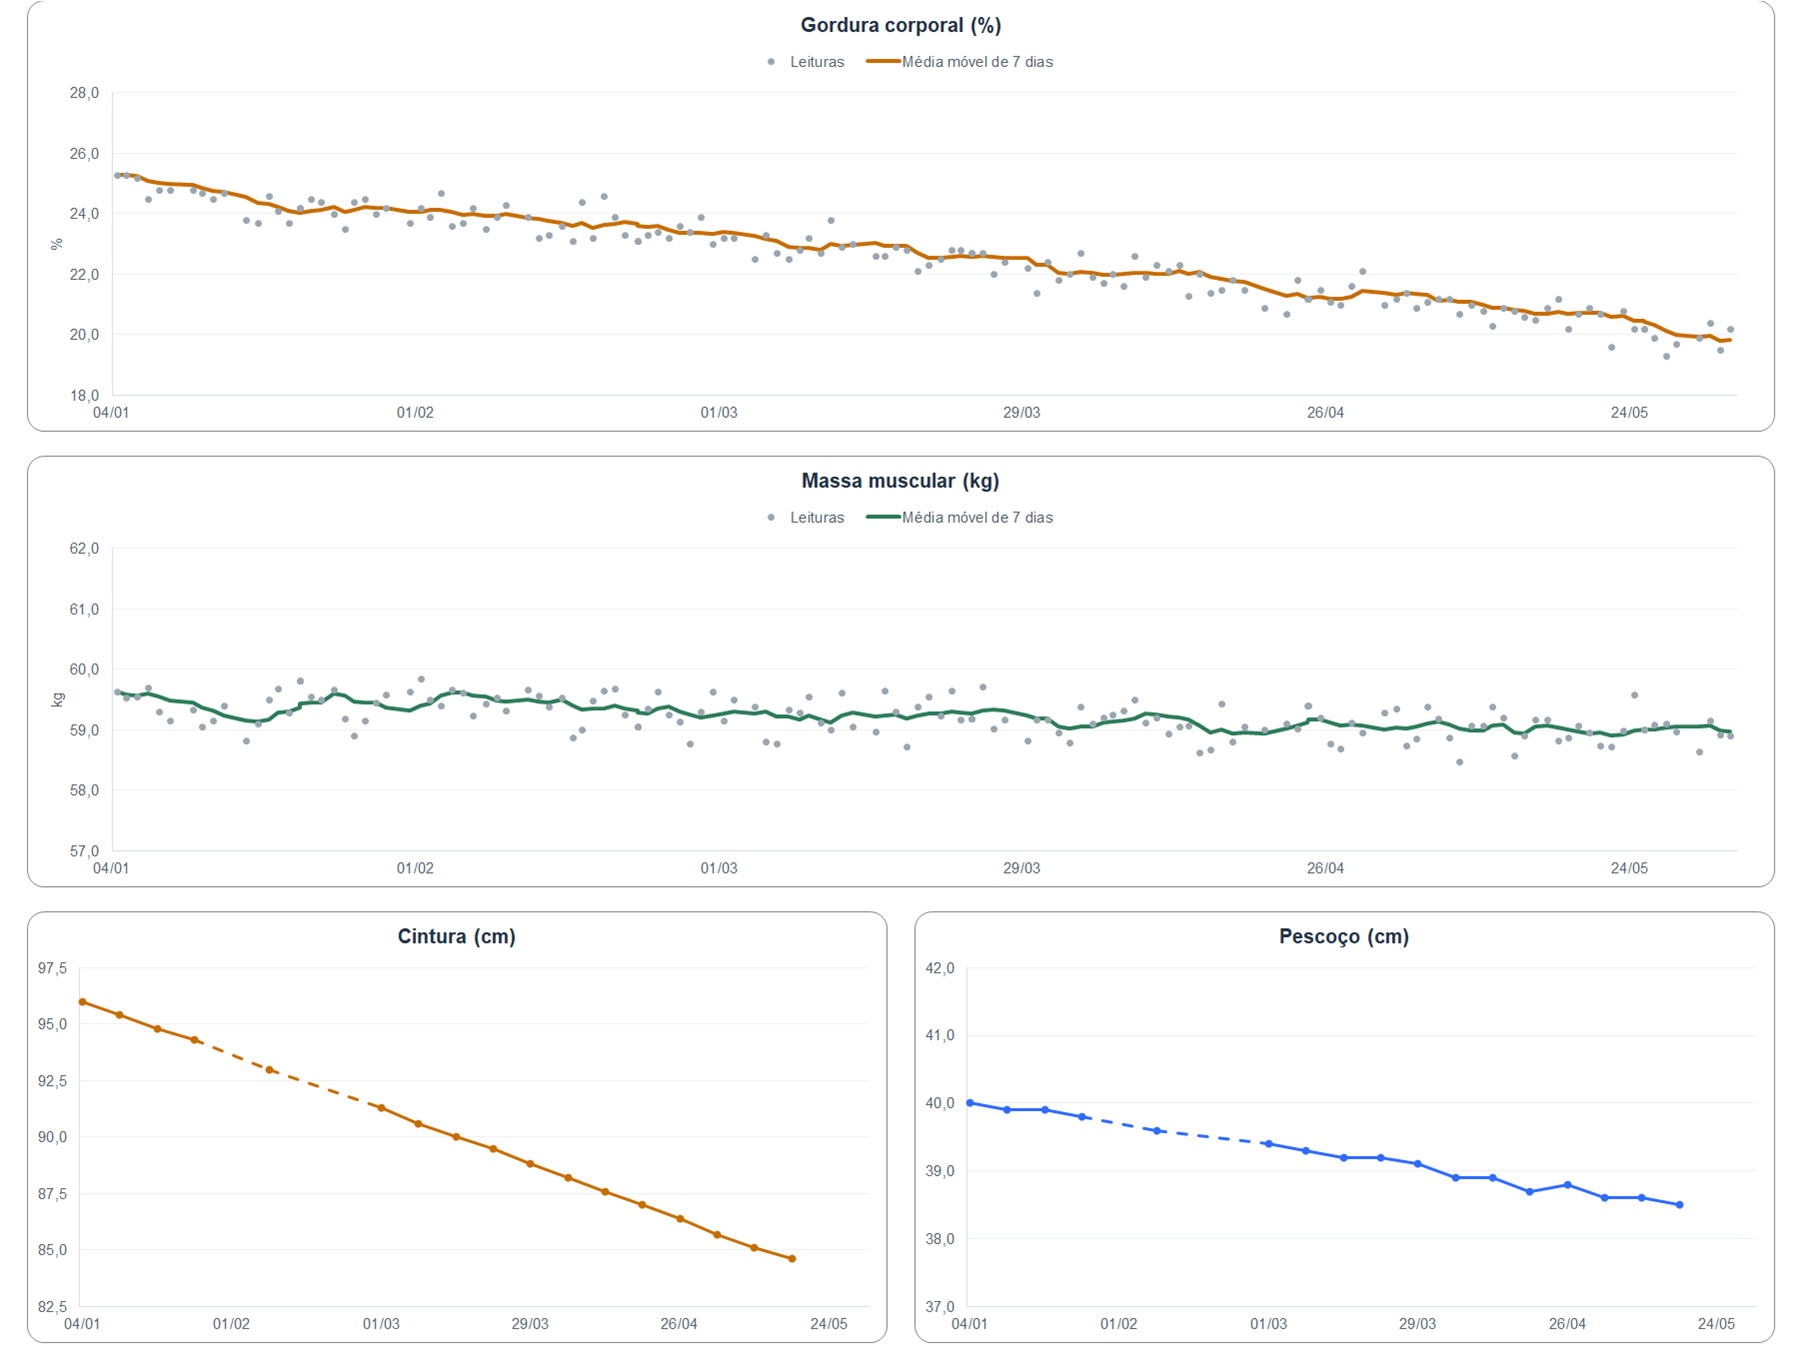
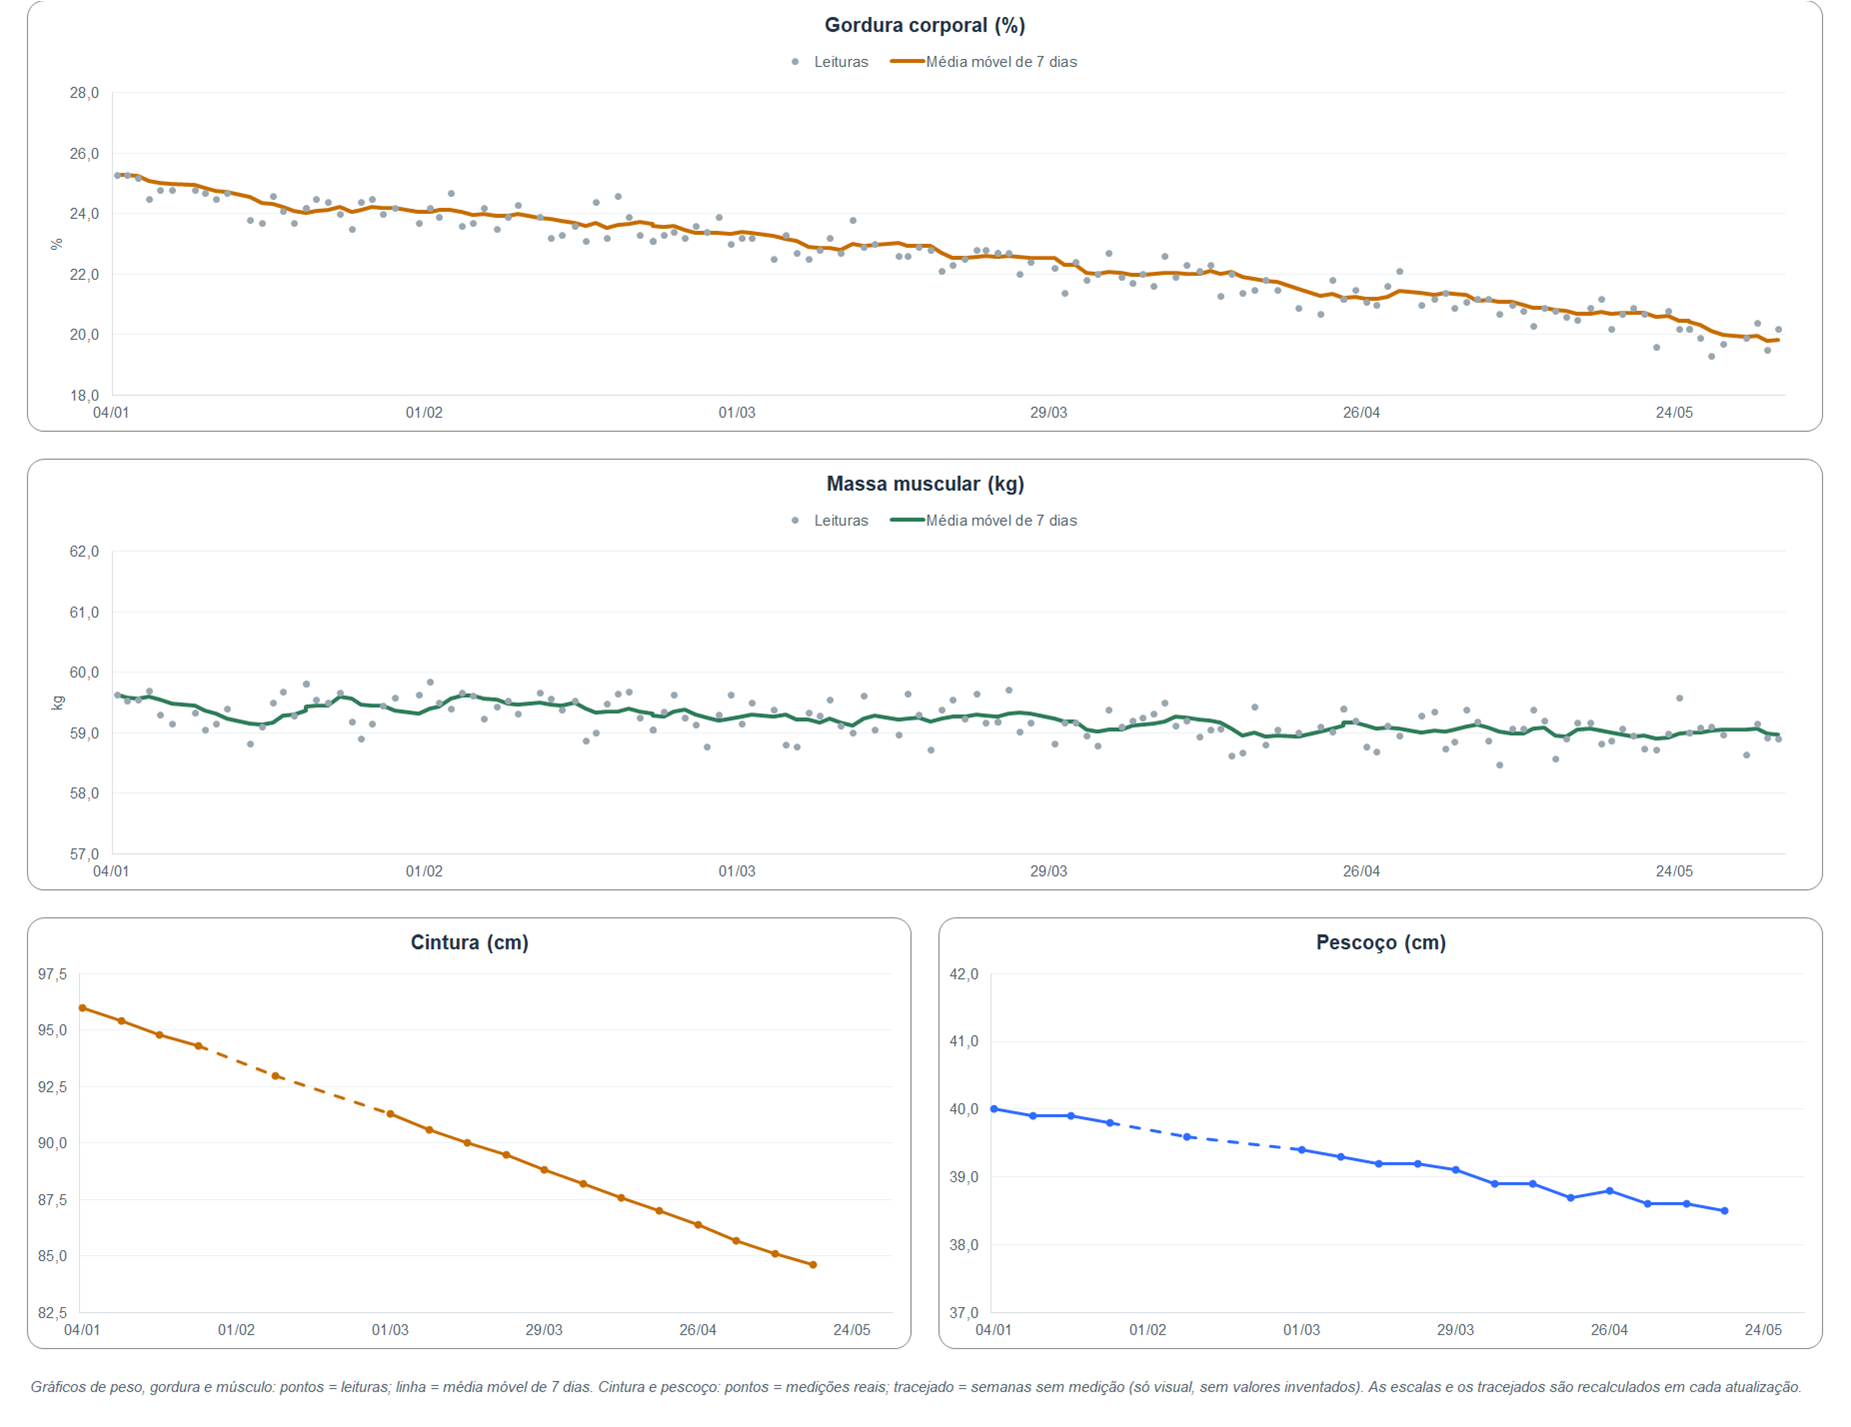
Painel: espaçamento único em margens, cartões e gráficos

diff --git a/zepp_transformacao/excel.py b/zepp_transformacao/excel.py
@@ -63,6 +63,15 @@ COLUNA_CAMPO = {**{campo: COLUNA_CORPO[nome] for nome, campo in CAMPO_CORPO.item
                 "massa_gorda": COLUNA_CORPO["Massa gorda (kg)"]}
 # Amplitude mínima dos eixos Y (unidade da métrica): evita ampliar ruído de medição.
 AMPLITUDE_MINIMA = {"peso": 6, "gordura": 4, "musculo": 3, "cintura": 10, "pescoco": 3}
+# Painel desenhado para o ecrã do utilizador (janela com ~1858 px úteis, 1 carácter de largura ≈ 9 px,
+# 1 ponto de altura ≈ 1,667 px). Um único espaçamento (~27 px) em todo o lado: margens laterais,
+# espaços entre cartões (horizontais e verticais), antes dos gráficos e entre gráficos.
+ESPACO_LARGURA = 3          # caracteres ≈ 27 px
+ESPACO_ALTURA = 16.2        # pontos ≈ 27 px
+CARTAO_LARGURA = 15.9       # 3 colunas por cartão: 4 cartões + 5 espaços ≈ 1851 px
+LINHA_CARTAO = 17           # pontos
+# Linhas do Painel: 3/9/15/21 espaços entre blocos; gráficos ocupam 18 linhas e têm um espaço depois.
+GRAFICOS_LINHAS = [(22, 39), (41, 58), (60, 77), (79, 96)]
 
 borda = Side(style="thin", color=COR["linha"])
 
@@ -492,27 +501,30 @@ def construir(caminho: Path, cfg: Config, selecao: Selecao, semanas: list[Semana
             for r in (linha, linha + 1, linha + 4):
                 painel[f"{c1}{r}"].alignment = Alignment(horizontal="center", vertical="center")
     # Pensado para um monitor largo (~1900 px) a 100 %: margens A e Q com a largura dos espaços entre cartões.
-    _larguras(painel, [3] + [15.5, 15.5, 15.5, 3] * 3 + [15.5, 15.5, 15.5] + [3])
+    _larguras(painel, [ESPACO_LARGURA] + [CARTAO_LARGURA] * 3 + ([ESPACO_LARGURA] + [CARTAO_LARGURA] * 3) * 3
+              + [ESPACO_LARGURA])
     for r in range(3, 22):
-        painel.row_dimensions[r].height = 17 if r not in (3, 9, 15, 21) else 8
+        painel.row_dimensions[r].height = ESPACO_ALTURA if r in (3, 9, 15, 21) else LINHA_CARTAO
+    for _, fim in GRAFICOS_LINHAS:
+        painel.row_dimensions[fim + 1].height = ESPACO_ALTURA
 
     pesos = [l["Weight"] for l in leituras]
     graficos = [
         (grafico_diario(corpo, ultima, "B", "N", "Peso (kg)", COR["azul"], pesos, [m["Weight"] for m in moveis],
-                        AMPLITUDE_MINIMA["peso"], "kg"), (1, 22, 16, 40)),
+                        AMPLITUDE_MINIMA["peso"], "kg"), (1, GRAFICOS_LINHAS[0][0] - 1, 16, GRAFICOS_LINHAS[0][1])),
         (grafico_diario(corpo, ultima, "D", "O", "Gordura corporal (%)", COR["laranja"],
-                        [l["BodyFat"] for l in leituras], [m["BodyFat"] for m in moveis], AMPLITUDE_MINIMA["gordura"], "%"), (1, 41, 16, 59)),
+                        [l["BodyFat"] for l in leituras], [m["BodyFat"] for m in moveis], AMPLITUDE_MINIMA["gordura"], "%"), (1, GRAFICOS_LINHAS[1][0] - 1, 16, GRAFICOS_LINHAS[1][1])),
         (grafico_diario(corpo, ultima, "G", "P", "Massa muscular (kg)", COR["verde"],
-                        [l["MuscleMass"] for l in leituras], [m["MuscleMass"] for m in moveis], AMPLITUDE_MINIMA["musculo"], "kg"), (1, 60, 16, 78)),
-        (grafico_manual(manual, semanas, "C", "cintura", "Cintura (cm)", COR["laranja"], AMPLITUDE_MINIMA["cintura"]), (1, 79, 8, 97)),
-        (grafico_manual(manual, semanas, "E", "pescoco", "Pescoço (cm)", COR["azul"], AMPLITUDE_MINIMA["pescoco"]), (9, 79, 16, 97)),
+                        [l["MuscleMass"] for l in leituras], [m["MuscleMass"] for m in moveis], AMPLITUDE_MINIMA["musculo"], "kg"), (1, GRAFICOS_LINHAS[2][0] - 1, 16, GRAFICOS_LINHAS[2][1])),
+        (grafico_manual(manual, semanas, "C", "cintura", "Cintura (cm)", COR["laranja"], AMPLITUDE_MINIMA["cintura"]), (1, GRAFICOS_LINHAS[3][0] - 1, 8, GRAFICOS_LINHAS[3][1])),
+        (grafico_manual(manual, semanas, "E", "pescoco", "Pescoço (cm)", COR["azul"], AMPLITUDE_MINIMA["pescoco"]), (9, GRAFICOS_LINHAS[3][0] - 1, 16, GRAFICOS_LINHAS[3][1])),
     ]
     for ch, (c0, r0, c1, r1) in graficos:
         if isinstance(ch, ScatterChart):
             _escala_datas(ch.x_axis, _serie(min(l.local for l in leituras)), _serie(max(l.local for l in leituras)))
         # Âncora a duas células: o gráfico ocupa exatamente as colunas/linhas indicadas.
         painel.add_chart(ch, TwoCellAnchor(editAs="oneCell", _from=AnchorMarker(col=c0, row=r0), to=AnchorMarker(col=c1, row=r1)))
-    _nota(painel, "B99", "P99", "Gráficos de peso, gordura e músculo: pontos = leituras; linha = média móvel de 7 dias. "
+    _nota(painel, "B98", "P98", "Gráficos de peso, gordura e músculo: pontos = leituras; linha = média móvel de 7 dias. "
           "Cintura e pescoço: pontos = medições reais; tracejado = semanas sem medição (só visual, sem valores inventados). "
           "As escalas e os tracejados são recalculados em cada atualização.")
     painel.freeze_panes = "A3"

diff --git a/CHANGELOG.md b/CHANGELOG.md
@@ -5,6 +5,7 @@
 - Mudança de hora: o Painel identifica a última pesagem pelo instante UTC (nova coluna oculta *Instante UTC* em Medições Corporais), não pela hora local. Antes, duas pesagens à mesma hora local (01:00–02:00 do último domingo de outubro) podiam mostrar o peso errado como "último".
 - As janelas de 7 dias e de 4 semanas usam o mínimo/máximo da hora local, tal como as fórmulas do Excel.
 - O livro é gerado mesmo que todas as datas das medidas manuais estejam vazias.
+- Painel com um único espaçamento (~27 px no ecrã de referência): margens laterais, espaços entre cartões na horizontal e na vertical, antes dos gráficos e entre gráficos; largura total ajustada a uma janela de ~1858 px.
 - Verificação no Excel mais robusta: filtro de mensagens COM (repete chamadas rejeitadas enquanto o Excel está ocupado), espera explícita até o Excel estar pronto, confirmação de que todas as folhas esperadas foram lidas e até 3 tentativas para falhas intermitentes da automação (nunca para diferenças de valores).
 
 ## 2.0.1 — 2026-10-11
